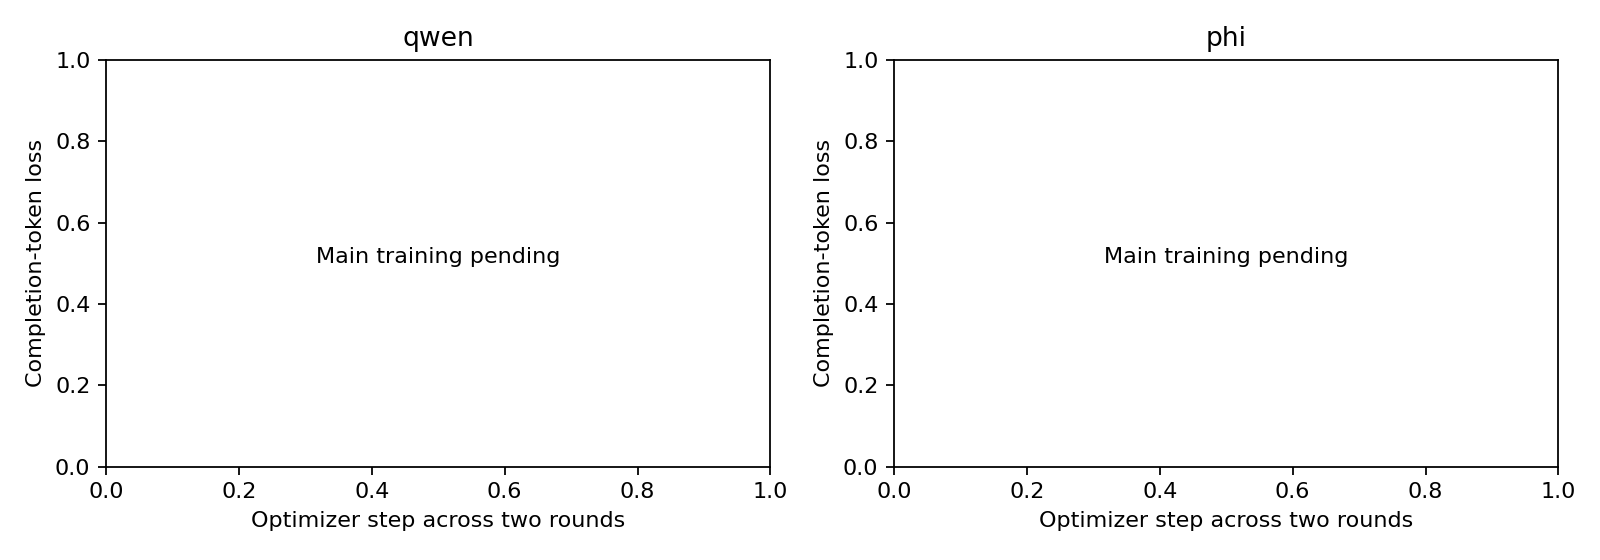
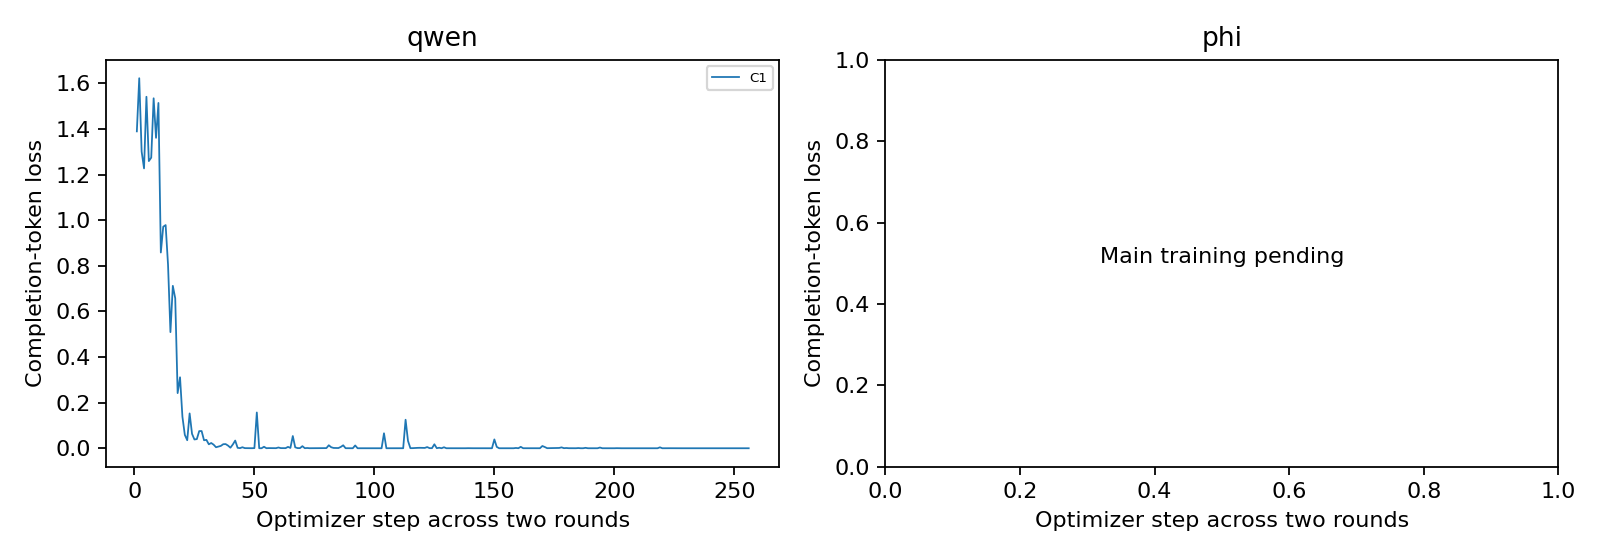
Record first confirmatory LoRA round and verified artifacts

diff --git a/dualingCharacters/RUN_STATE.md b/dualingCharacters/RUN_STATE.md
@@ -19,8 +19,10 @@ The original freeze remains in `configs/freeze_original.json`. No experimental
 choices changed. The first 150-family clean collection completed, producing 900
 attempted windows, 804 source-eligible examples, and zero verified model
 recoveries in 128 attempts. The common teacher supplies all 804 labels. The
-first 256-step training round is active; consult `artifacts/campaign_state.json`
-and the mirrored run status for the latest stage rather than restarting it.
+first 256-step training round completed with 1,048,576 input tokens, 48,838
+supervised target tokens and changed adapter SHA256. Round-one collection is
+active on the other 150 families at 32 turns, using that adapter. Consult
+`artifacts/campaign_state.json` and the mirrored status for the latest stage.
 The resumed local controller uses unified execution session `67629`; session
 `38552` ended at the documented hold. Its log continues in
 `artifacts/campaign_controller.log`. Inspect the lock/current stage before any

diff --git a/dualingCharacters/reports/AUTHOR_REVIEW.md b/dualingCharacters/reports/AUTHOR_REVIEW.md
@@ -2,7 +2,7 @@
 
 This is not a submission-ready paper. Human scientific review remains required.
 
-Measured reservation: 3.218 GPU-hours; inference 92,626,381 input and 5,862,848 output tokens; 737,280 training input tokens. Actual dollar cost is unknown.
+Measured reservation: 3.670 GPU-hours; inference 97,404,649 input and 6,193,931 output tokens; 1,785,856 training input tokens. Actual dollar cost is unknown.
 
 ## Matched learning pilots (one seed; 32 turns)
 
